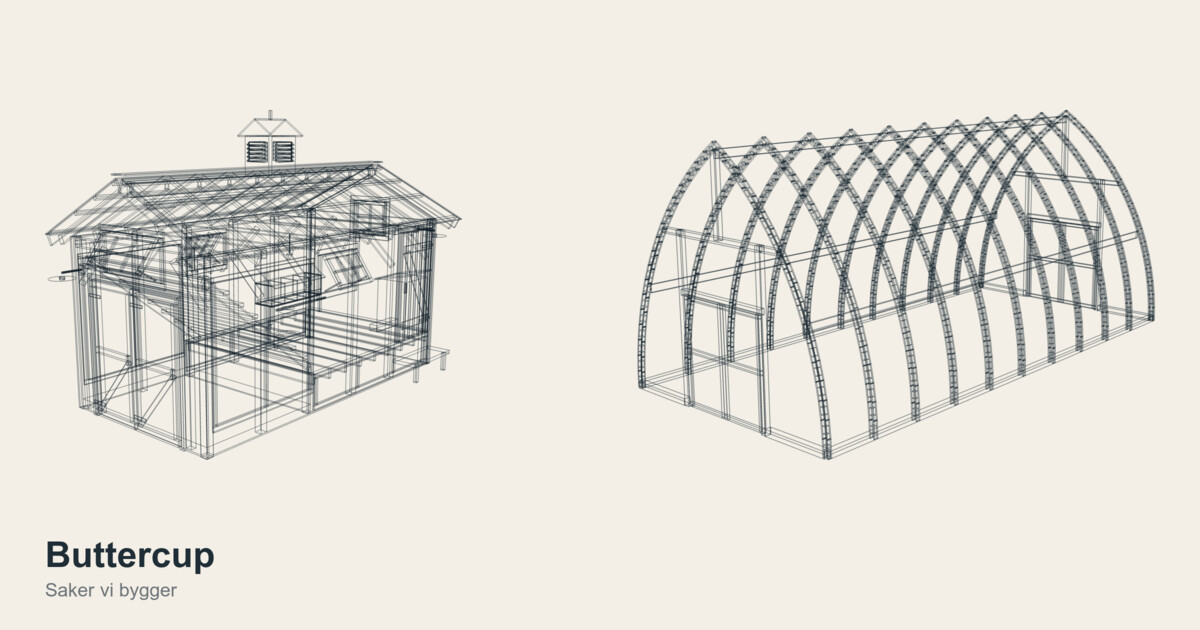
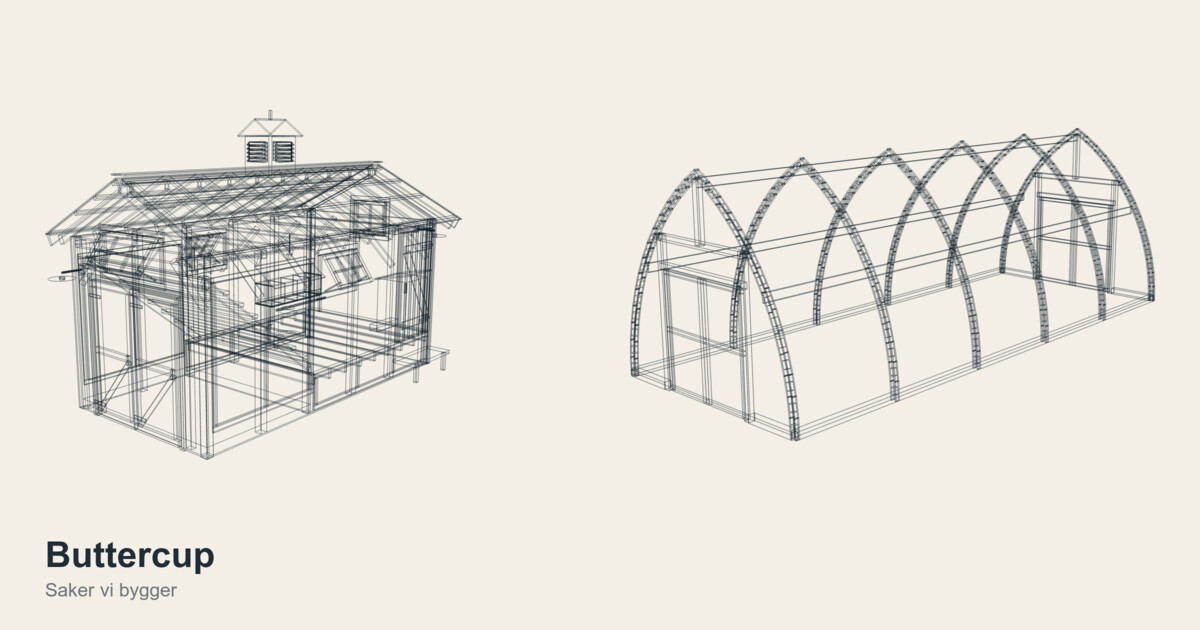
Växthus: standard 4 000 × 3 500, dörr 2 000×2 000, överljus 450, bågavstånd 2 000

Changed region(s): [[0.5242, 0.181, 0.9867, 0.7238]]

diff --git a/vaxthus/index.html b/vaxthus/index.html
@@ -1,13 +1,13 @@
-<!doctype html><html><head><meta charset=utf8><meta name=viewport content="width=device-width,initial-scale=1,viewport-fit=cover"><style>:root{color-scheme:light;box-sizing:border-box;padding-top:env(safe-area-inset-top,0px);padding-bottom:env(safe-area-inset-bottom,0px)}html{scroll-padding-top:env(safe-area-inset-top,0px)}body{margin:0;padding:0;font:14px -apple-system,BlinkMacSystemFont,sans-serif;background:#faf9f5;color:#141413}img{max-width:100%}[hidden]:not([hidden=until-found i]){display:none!important}</style><title>Bågväxthus 4,8 × 10 m</title>
+<!doctype html><html><head><meta charset=utf8><meta name=viewport content="width=device-width,initial-scale=1,viewport-fit=cover"><style>:root{color-scheme:light;box-sizing:border-box;padding-top:env(safe-area-inset-top,0px);padding-bottom:env(safe-area-inset-bottom,0px)}html{scroll-padding-top:env(safe-area-inset-top,0px)}body{margin:0;padding:0;font:14px -apple-system,BlinkMacSystemFont,sans-serif;background:#faf9f5;color:#141413}img{max-width:100%}[hidden]:not([hidden=until-found i]){display:none!important}</style><title>Bågväxthus 4 × 10 m</title>
 <meta property="og:type" content="website">
 <meta property="og:site_name" content="Buttercup">
-<meta property="og:title" content="Bågväxthus 4,8 × 10 m">
+<meta property="og:title" content="Bågväxthus 4 × 10 m">
 <meta property="og:description" content="Res stommen steg för steg, dra i nocken och få inköpslistan. Export till CSV och GLB.">
 <meta property="og:url" content="https://buttercup-omega.vercel.app/vaxthus/">
 <meta property="og:image" content="https://buttercup-omega.vercel.app/vaxthus/og.jpg">
 <meta property="og:image:width" content="1200">
 <meta property="og:image:height" content="630">
-<meta property="og:image:alt" content="Wireframe av Bågväxthus 4,8 × 10 m">
+<meta property="og:image:alt" content="Wireframe av Bågväxthus 4 × 10 m">
 <meta name="twitter:card" content="summary_large_image">
 <meta name="twitter:image" content="https://buttercup-omega.vercel.app/vaxthus/og.jpg">
 <meta name="description" content="Res stommen steg för steg, dra i nocken och få inköpslistan. Export till CSV och GLB.">
@@ -128,8 +128,8 @@ dd{margin:2px 0 0;font-family:var(--mono);font-size:15px;font-variant-numeric:ta
     <div class="hrow"><span class="lab">Bredd</span><input id="wid" type="range" min="4" max="12" step="0.1" value="7" aria-label="Bredd"><output id="wout" for="wid"></output></div>
     <div class="hrow"><span class="lab">Dörrbredd</span><input id="dwi" type="range" min="1" max="4" step="0.1" value="2" aria-label="Dörrbredd"><output id="dwo" for="dwi"></output></div>
     <div class="hrow"><span class="lab">Dörrhöjd</span><input id="dhi" type="range" min="1.8" max="3" step="0.05" value="2" aria-label="Dörrhöjd"><output id="dho" for="dhi"></output></div>
-    <div class="hrow"><span class="lab">Överljus</span><input id="tri" type="range" min="0" max="1.5" step="0.05" value="1" aria-label="Överljusets höjd"><output id="tro" for="tri"></output></div>
-    <div class="hrow"><span class="lab">Bågavstånd</span><input id="spi" type="range" min="0.6" max="3" step="0.05" value="1" aria-label="Avstånd mellan bågarna"><output id="spo" for="spi"></output></div>
+    <div class="hrow"><span class="lab">Överljus</span><input id="tri" type="range" min="0" max="1.5" step="0.05" value="0.45" aria-label="Överljusets höjd"><output id="tro" for="tri"></output></div>
+    <div class="hrow"><span class="lab">Bågavstånd</span><input id="spi" type="range" min="0.6" max="3" step="0.05" value="2" aria-label="Avstånd mellan bågarna"><output id="spo" for="spi"></output></div>
     <div class="hrow"><span class="lab">Spetsighet</span><input id="pti" type="range" min="0" max="2.5" step="0.05" value="0" aria-label="Hur spetsig bågen är"><output id="pto" for="pti"></output></div>
   </section>
   </div>
@@ -182,10 +182,10 @@ dd{margin:2px 0 0;font-family:var(--mono);font-size:15px;font-variant-numeric:ta
   var T=THREE, V=function(x,y,z){return new T.Vector3(x,y,z);};
 
   // ---- geometry constants (metres) ----
-  var A=2.4, H=4.5, YC=0, C, R, TH0, TH1, ARC;
+  var A=2, H=3.5, YC=0, C, R, TH0, TH1, ARC;
   function geo(){ C=(H*H-A*A-2*H*YC)/(2*A); R=Math.sqrt((C+A)*(C+A)+YC*YC); TH0=Math.PI-Math.asin(-YC/R); TH1=Math.atan2(H-YC,-C); ARC=R*(TH0-TH1); }
   function slope(){ return Math.atan(C/(H-YC))*180/Math.PI; }
-  var DW=1, DH=2, TR=1;                      // half door width, door height, transom height
+  var DW=1, DH=2, TR=.45;                      // half door width, door height, transom height
   function fit(){                            // keep the door frame under the arch
     DW=Math.min(DW,A-1);
     var lim=YC+Math.sqrt(R*R-(DW+C)*(DW+C))-.2;
@@ -202,7 +202,7 @@ dd{margin:2px 0 0;font-family:var(--mono);font-size:15px;font-variant-numeric:ta
     {n:'Gavlar',a:.64,b:.78},{n:'Dörrar',a:.78,b:.87},{n:'Polyetenfilm',a:.87,b:1}
   ];
   var LENS=[10,12,14,16,18,20,30,40];
-  var L=10, p=1, filmArea=0, SP=1;
+  var L=10, p=1, filmArea=0, SP=2;
   function nArch(){ return Math.max(2,Math.ceil(L/SP-1e-9)+1); }
 
   // ---- three setup ----

diff --git a/index.html b/index.html
@@ -38,7 +38,7 @@
   <!-- PROJEKT: lägg nya kort överst -->
   <a class="card" href="vaxthus/">
     <span class="date">okt 2026</span>
-    <h2>Bågväxthus 4,8 × 10 m</h2>
+    <h2>Bågväxthus 4 × 10 m</h2>
     <p>Bågväxthus som byggs upp steg för steg, från syllram till polyetenfilm. Gavelsektion med justerbar nock, dörr och bågavstånd. Inköpslista för trästommen.</p>
   </a>
   <a class="card" href="honshus/">

diff --git a/vaxthus/NOTES.md b/vaxthus/NOTES.md
@@ -3,7 +3,7 @@
 Byggd av Hugo i Claude (desktop). En fil, `index.html`, three.js r128 från cdnjs och typsnitten Archivo + IBM Plex Mono. Ljust och mörkt tema följer systemet.
 
 ## Geometri (meter i koden, mm i gränssnittet)
-- `A` = halva bredden, `H` = nockhöjd. Standard nu **4 800 × 4 500 mm** (Hugos val, okt 2026). Originalet var 7 000 × 4 200.
+- `A` = halva bredden, `H` = nockhöjd. Standard nu **4 000 × 3 500 mm**, dörr 2 000 × 2 000, överljus 450, bågavstånd 2 000 (Hugos val, okt 2026). Originalet var 7 000 × 4 200.
 - Bågen är en **cirkelbåge** med centrum under marken, förskjutet i sidled:
   - `C = (H² − A²) / 2A` → förskjutning 0,77 m
   - `R = C + A` → radie 4,27 m

diff --git a/README.md b/README.md
@@ -4,7 +4,7 @@ Samlingsrepo för allt vi bygger. Statiska sidor, ingen build. Varje projekt lig
 
 | Projekt | Mapp | Beskrivning |
 |---|---|---|
-| Bågväxthus 4,8 × 10 m | [`vaxthus/`](vaxthus/) | Bågväxthus med byggsteg, gavelsektion och inköpslista |
+| Bågväxthus 4 × 10 m | [`vaxthus/`](vaxthus/) | Bågväxthus med byggsteg, gavelsektion och inköpslista |
 | Hönshus i 3D | [`honshus/`](honshus/) | Parametrisk three.js-modell av ett hönshus med kompostgrop |
 
 ## Lägga till ett projekt

diff --git a/vaxthus/README.md b/vaxthus/README.md
@@ -1,4 +1,4 @@
-# Bågväxthus 4,8 × 10 m
+# Bågväxthus 4 × 10 m
 
 Dra i reglaget för att resa stommen. Sista steget klär huset i polyetenfilm.
 
